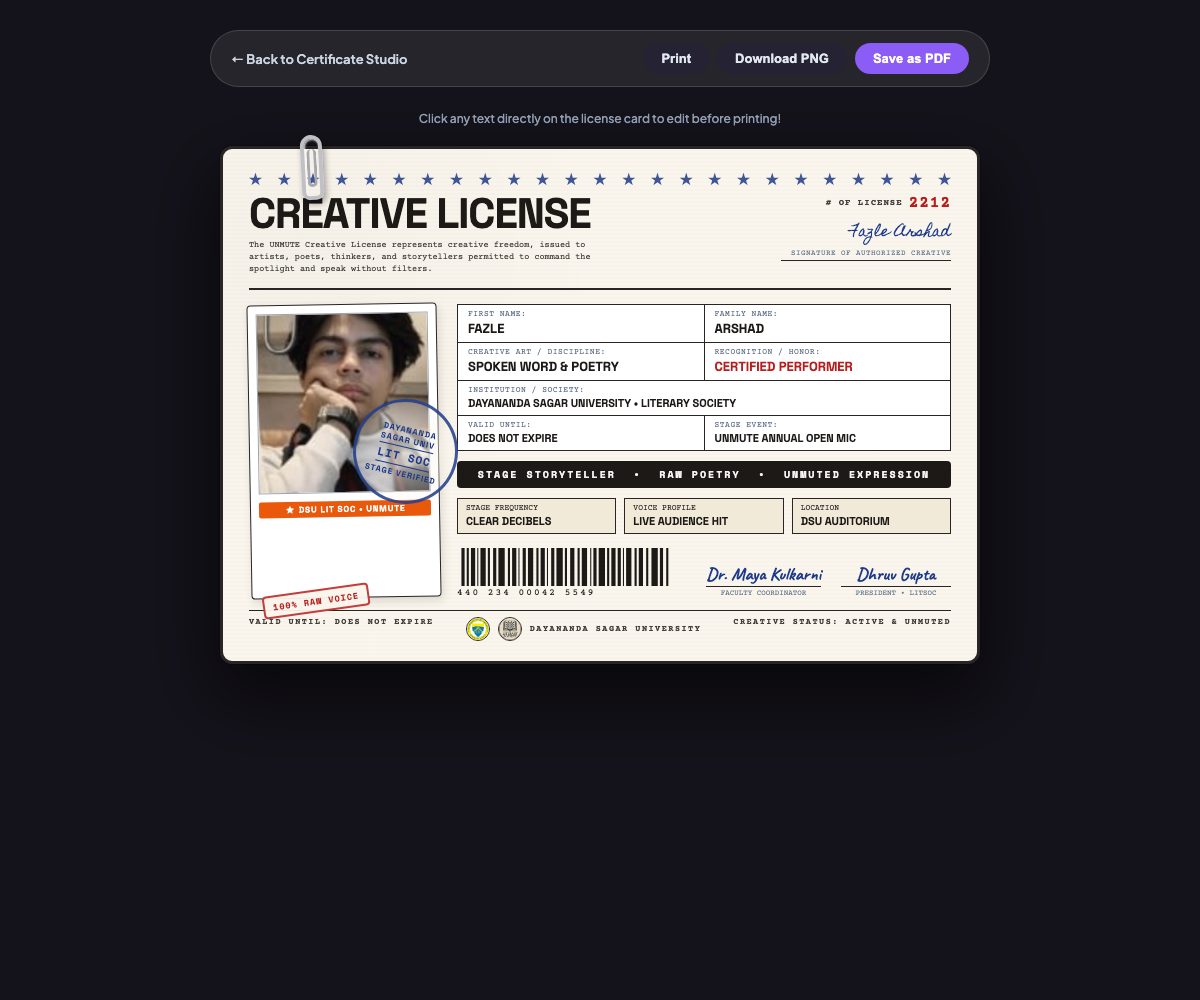
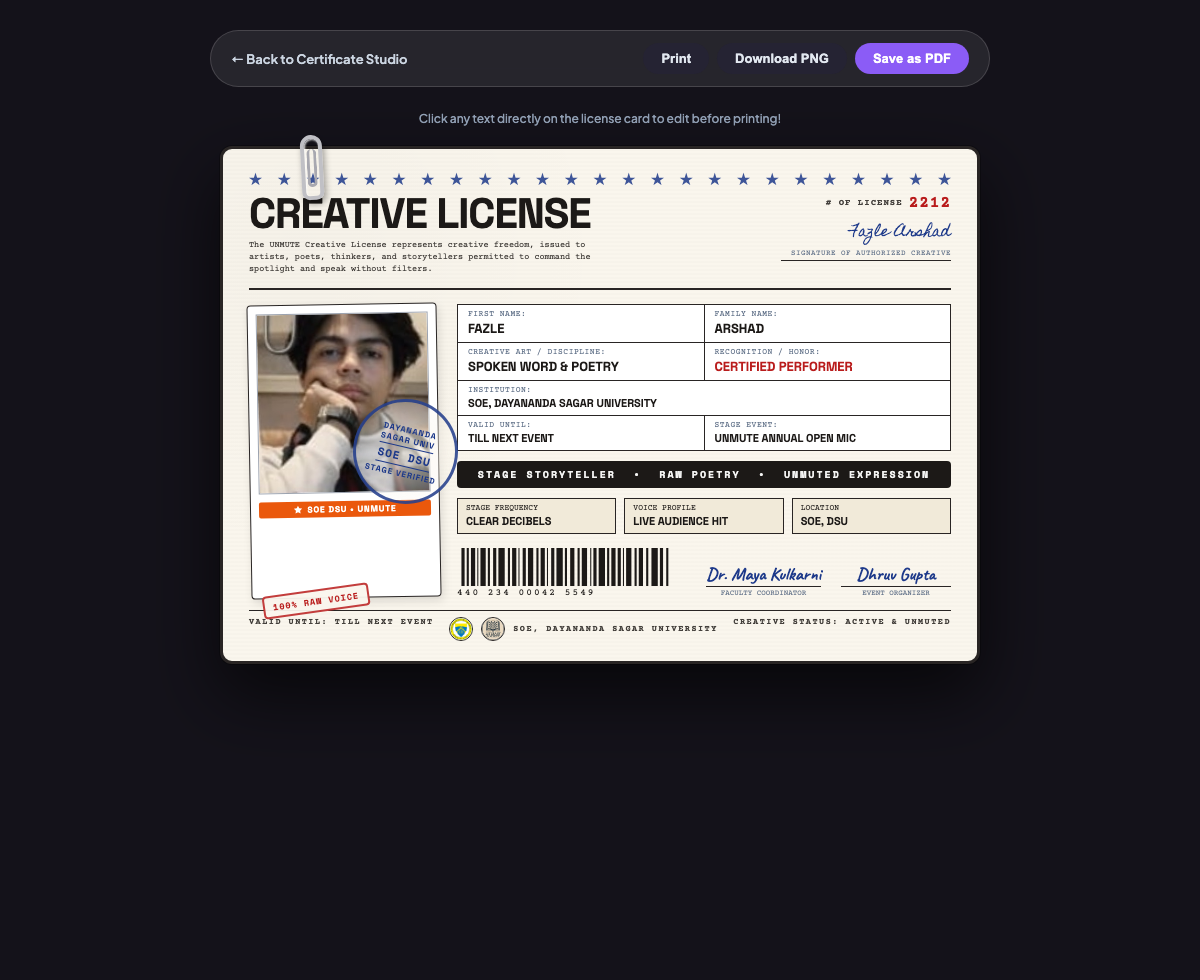
feat: update Creative License with SOE DSU, Event Organizer, and Till Next Event validity

diff --git a/index.html b/index.html
@@ -1412,8 +1412,8 @@
           </select>
         </div>
         <div class="form-group">
-          <label>University / Affiliation</label>
-          <input type="text" id="input-affiliation" value="DAYANANDA SAGAR UNIVERSITY" oninput="updateCertificates()">
+          <label>University / Institution</label>
+          <input type="text" id="input-affiliation" value="SOE, DAYANANDA SAGAR UNIVERSITY" oninput="updateCertificates()">
         </div>
         <div class="form-group">
           <label>Passport / License No.</label>
@@ -1421,7 +1421,11 @@
         </div>
         <div class="form-group">
           <label>Event Date & Venue</label>
-          <input type="text" id="input-date" value="OCTOBER 24, 2024 • AUDITORIUM" oninput="updateCertificates()">
+          <input type="text" id="input-date" value="OCTOBER 24, 2024 • SOE, DSU" oninput="updateCertificates()">
+        </div>
+        <div class="form-group">
+          <label>Creative License Sub-Manifesto</label>
+          <textarea id="input-manifesto" rows="2" style="resize:vertical;" oninput="updateCertificates()">The UNMUTE Creative License represents creative freedom, issued to artists, poets, thinkers, and storytellers permitted to command the spotlight and speak without filters.</textarea>
         </div>
       </div>
 
@@ -1471,7 +1475,7 @@
           <input type="text" id="input-faculty" value="Dr. Maya Kulkarni" oninput="updateCertificates()">
         </div>
         <div class="form-group">
-          <label>President, Literary Society</label>
+          <label>Event Organizer Signature</label>
           <input type="text" id="input-president" value="Dhruv Gupta" oninput="updateCertificates()">
         </div>
       </div>
@@ -1672,8 +1676,8 @@
           <!-- Header Row -->
           <div class="license-header-grid">
             <div class="license-headline-group">
-              <div class="license-huge-title">CREATIVE LICENSE</div>
-              <div class="license-sub-manifesto">
+              <div class="license-huge-title" contenteditable="true">CREATIVE LICENSE</div>
+              <div class="license-sub-manifesto" id="lic-manifesto-text" contenteditable="true">
                 The UNMUTE Creative License represents creative freedom, issued to artists, poets, thinkers, and storytellers permitted to command the spotlight and speak without filters.
               </div>
             </div>
@@ -1681,10 +1685,10 @@
             <div class="license-meta-top-right">
               <div class="license-number-badge">
                 <span class="label"># of License</span>
-                <span id="lic-card-number">2212</span>
+                <span id="lic-card-number" contenteditable="true">2212</span>
               </div>
               <div class="license-sign-top">
-                <div class="sign-img" id="lic-top-sig">Olivia Rodrigo</div>
+                <div class="sign-img" id="lic-top-sig" contenteditable="true">Olivia Rodrigo</div>
                 <div class="sign-label">Signature of Authorized Creative</div>
               </div>
             </div>
@@ -1700,18 +1704,18 @@
               </div>
               <div class="photo-orange-tag">
                 <svg width="10" height="10" viewBox="0 0 24 24" fill="currentColor"><path d="M12 2L15.09 8.26L22 9.27L17 14.14L18.18 21.02L12 17.77L5.82 21.02L7 14.14L2 9.27L8.91 8.26L12 2Z"/></svg>
-                <span>DSU LIT SOC • UNMUTE</span>
+                <span contenteditable="true">SOE DSU • UNMUTE</span>
               </div>
 
               <!-- Blue Circular Stamp -->
               <div class="license-blue-stamp">
                 <span class="stamp-circle-text">DAYANANDA SAGAR UNIV</span>
-                <span class="stamp-mid">LIT SOC</span>
+                <span class="stamp-mid">SOE DSU</span>
                 <span class="stamp-circle-text">STAGE VERIFIED</span>
               </div>
 
               <!-- Red Stamp -->
-              <div class="license-red-stamp">
+              <div class="license-red-stamp" contenteditable="true">
                 100% RAW VOICE
               </div>
             </div>
@@ -1724,43 +1728,43 @@
                 <tr>
                   <td style="width: 50%;">
                     <span class="lic-label">First Name:</span>
-                    <div class="lic-val" id="lic-first-name">OLIVIA</div>
+                    <div class="lic-val" id="lic-first-name" contenteditable="true">OLIVIA</div>
                   </td>
                   <td style="width: 50%;">
                     <span class="lic-label">Family Name:</span>
-                    <div class="lic-val" id="lic-family-name">RODRIGO</div>
+                    <div class="lic-val" id="lic-family-name" contenteditable="true">RODRIGO</div>
                   </td>
                 </tr>
                 <tr>
                   <td>
                     <span class="lic-label">Creative Art / Discipline:</span>
-                    <div class="lic-val" id="lic-discipline">SPOKEN WORD & POETRY</div>
+                    <div class="lic-val" id="lic-discipline" contenteditable="true">SPOKEN WORD & POETRY</div>
                   </td>
                   <td>
                     <span class="lic-label">Recognition / Honor:</span>
-                    <div class="lic-val" id="lic-honor" style="color: #B91C1C;">CERTIFIED PERFORMER</div>
+                    <div class="lic-val" id="lic-honor" style="color: #B91C1C;" contenteditable="true">CERTIFIED PERFORMER</div>
                   </td>
                 </tr>
                 <tr>
                   <td colspan="2">
-                    <span class="lic-label">Institution / Society:</span>
-                    <div class="lic-val" style="font-size: 11px;">DAYANANDA SAGAR UNIVERSITY • LITERARY SOCIETY</div>
+                    <span class="lic-label">Institution:</span>
+                    <div class="lic-val" id="lic-institution" style="font-size: 11px;" contenteditable="true">SOE, DAYANANDA SAGAR UNIVERSITY</div>
                   </td>
                 </tr>
                 <tr>
                   <td>
                     <span class="lic-label">Valid Until:</span>
-                    <div class="lic-val" style="font-size: 11px;">DOES NOT EXPIRE</div>
+                    <div class="lic-val" id="lic-valid-until" style="font-size: 11px;" contenteditable="true">TILL NEXT EVENT</div>
                   </td>
                   <td>
                     <span class="lic-label">Stage Event:</span>
-                    <div class="lic-val" style="font-size: 11px;">UNMUTE ANNUAL OPEN MIC</div>
+                    <div class="lic-val" style="font-size: 11px;" contenteditable="true">UNMUTE ANNUAL OPEN MIC</div>
                   </td>
                 </tr>
               </table>
 
               <!-- Ribbon Band -->
-              <div class="license-ribbon-band">
+              <div class="license-ribbon-band" contenteditable="true">
                 <span>STAGE STORYTELLER</span>
                 <span>•</span>
                 <span>RAW POETRY</span>
@@ -1772,15 +1776,15 @@
               <div class="license-tags-row">
                 <div class="license-tag-box">
                   STAGE FREQUENCY
-                  <strong>CLEAR DECIBELS</strong>
+                  <strong contenteditable="true">CLEAR DECIBELS</strong>
                 </div>
                 <div class="license-tag-box">
                   VOICE PROFILE
-                  <strong id="lic-voice-tag">LIVE AUDIENCE HIT</strong>
+                  <strong id="lic-voice-tag" contenteditable="true">LIVE AUDIENCE HIT</strong>
                 </div>
                 <div class="license-tag-box">
                   LOCATION
-                  <strong>DSU AUDITORIUM</strong>
+                  <strong id="lic-location-tag" contenteditable="true">SOE, DSU</strong>
                 </div>
               </div>
 
@@ -1826,18 +1830,18 @@
                     <rect x="188" y="0" width="3" height="36" fill="#1C1917"/>
                     <rect x="194" y="0" width="2" height="36" fill="#1C1917"/>
                   </svg>
-                  <div class="barcode-number-text">440 234 00042 5549</div>
+                  <div class="barcode-number-text" contenteditable="true">440 234 00042 5549</div>
                 </div>
 
                 <!-- Dual Signatures on License -->
                 <div class="license-dual-sigs">
                   <div class="license-sig-unit">
-                    <div class="sig-hand" id="lic-auth-faculty">Dr. Maya Kulkarni</div>
+                    <div class="sig-hand" id="lic-auth-faculty" contenteditable="true">Dr. Maya Kulkarni</div>
                     <div class="sig-post">Faculty Coordinator</div>
                   </div>
                   <div class="license-sig-unit">
-                    <div class="sig-hand" id="lic-auth-president">Dhruv Gupta</div>
-                    <div class="sig-post">President • LitSoc</div>
+                    <div class="sig-hand" id="lic-auth-president" contenteditable="true">Dhruv Gupta</div>
+                    <div class="sig-post" id="lic-auth-post2" contenteditable="true">Event Organizer</div>
                   </div>
                 </div>
               </div>
@@ -1847,13 +1851,13 @@
 
           <!-- Status Footer -->
           <div class="license-status-strip">
-            <span>VALID UNTIL: DOES NOT EXPIRE</span>
+            <span id="lic-footer-validity" contenteditable="true">VALID UNTIL: TILL NEXT EVENT</span>
             <div class="license-branding-pill">
               <img src="./dsu_logo.png" alt="DSU">
               <img src="./logo.jpg" alt="LitSoc">
-              <span>DAYANANDA SAGAR UNIVERSITY</span>
+              <span id="lic-footer-univ" contenteditable="true">SOE, DAYANANDA SAGAR UNIVERSITY</span>
             </div>
-            <span>CREATIVE STATUS: ACTIVE &amp; UNMUTED</span>
+            <span contenteditable="true">CREATIVE STATUS: ACTIVE &amp; UNMUTED</span>
           </div>
 
         </div>
@@ -1984,6 +1988,13 @@
       document.getElementById('lic-card-number').textContent = numMatch;
       document.getElementById('lic-auth-faculty').textContent = faculty;
       document.getElementById('lic-auth-president').textContent = president;
+
+      const manifesto = document.getElementById('input-manifesto').value.trim();
+      if (manifesto) {
+        document.getElementById('lic-manifesto-text').textContent = manifesto;
+      }
+      document.getElementById('lic-institution').textContent = affiliation;
+      document.getElementById('lic-footer-univ').textContent = affiliation;
     }
 
     function downloadPDF() {

diff --git a/license.html b/license.html
@@ -582,12 +582,12 @@
         </div>
         <div class="photo-orange-tag">
           <svg width="10" height="10" viewBox="0 0 24 24" fill="currentColor"><path d="M12 2L15.09 8.26L22 9.27L17 14.14L18.18 21.02L12 17.77L5.82 21.02L7 14.14L2 9.27L8.91 8.26L12 2Z"/></svg>
-          <span contenteditable="true">DSU LIT SOC • UNMUTE</span>
+          <span contenteditable="true">SOE DSU • UNMUTE</span>
         </div>
 
         <div class="license-blue-stamp">
           <span class="stamp-circle-text">DAYANANDA SAGAR UNIV</span>
-          <span class="stamp-mid">LIT SOC</span>
+          <span class="stamp-mid">SOE DSU</span>
           <span class="stamp-circle-text">STAGE VERIFIED</span>
         </div>
 
@@ -621,14 +621,14 @@
           </tr>
           <tr>
             <td colspan="2">
-              <span class="lic-label">Institution / Society:</span>
-              <div class="lic-val" contenteditable="true" style="font-size: 11px;">DAYANANDA SAGAR UNIVERSITY • LITERARY SOCIETY</div>
+              <span class="lic-label">Institution:</span>
+              <div class="lic-val" contenteditable="true" style="font-size: 11px;">SOE, DAYANANDA SAGAR UNIVERSITY</div>
             </td>
           </tr>
           <tr>
             <td>
               <span class="lic-label">Valid Until:</span>
-              <div class="lic-val" contenteditable="true" style="font-size: 11px;">DOES NOT EXPIRE</div>
+              <div class="lic-val" contenteditable="true" style="font-size: 11px;">TILL NEXT EVENT</div>
             </td>
             <td>
               <span class="lic-label">Stage Event:</span>
@@ -656,7 +656,7 @@
           </div>
           <div class="license-tag-box">
             LOCATION
-            <strong contenteditable="true">DSU AUDITORIUM</strong>
+            <strong contenteditable="true">SOE, DSU</strong>
           </div>
         </div>
 
@@ -710,7 +710,7 @@
             </div>
             <div class="license-sig-unit">
               <div class="sig-hand" contenteditable="true">Dhruv Gupta</div>
-              <div class="sig-post">President • LitSoc</div>
+              <div class="sig-post" contenteditable="true">Event Organizer</div>
             </div>
           </div>
         </div>
@@ -719,11 +719,11 @@
     </div>
 
     <div class="license-status-strip">
-      <span contenteditable="true">VALID UNTIL: DOES NOT EXPIRE</span>
+      <span contenteditable="true">VALID UNTIL: TILL NEXT EVENT</span>
       <div class="license-branding-pill">
         <img src="./dsu_logo.png" alt="DSU">
         <img src="./logo.jpg" alt="LitSoc">
-        <span contenteditable="true">DAYANANDA SAGAR UNIVERSITY</span>
+        <span contenteditable="true">SOE, DAYANANDA SAGAR UNIVERSITY</span>
       </div>
       <span contenteditable="true">CREATIVE STATUS: ACTIVE &amp; UNMUTED</span>
     </div>
